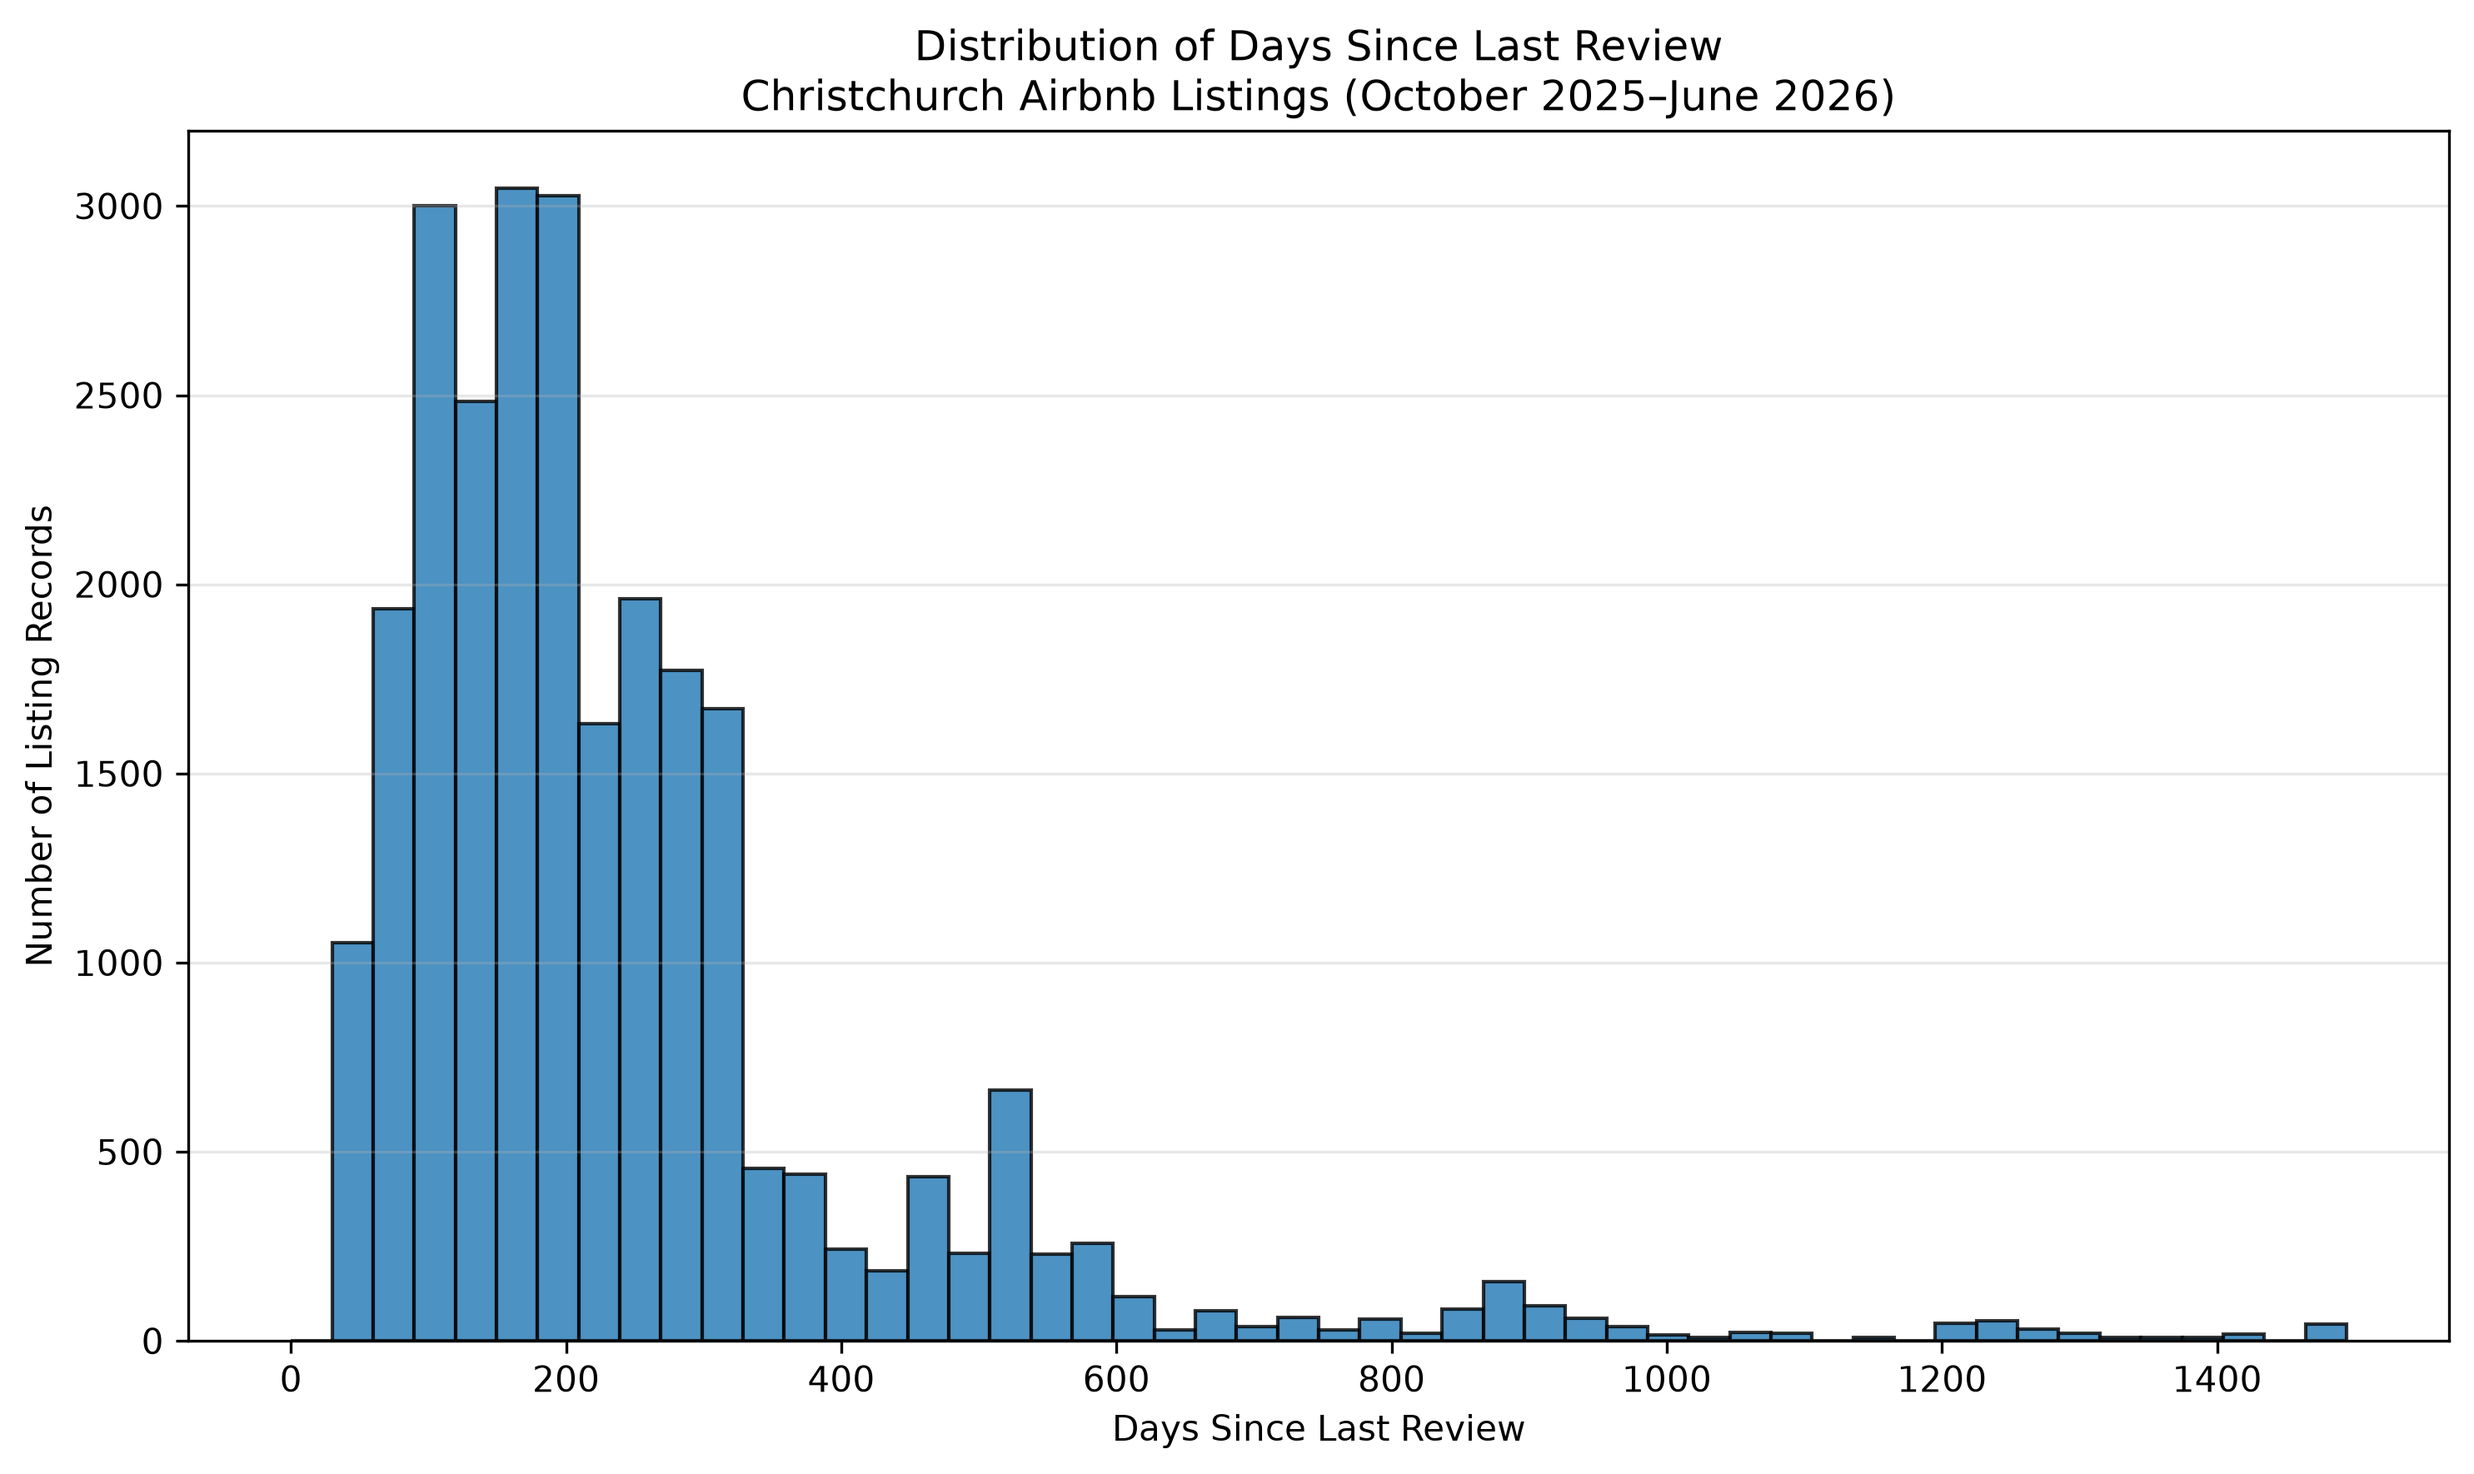
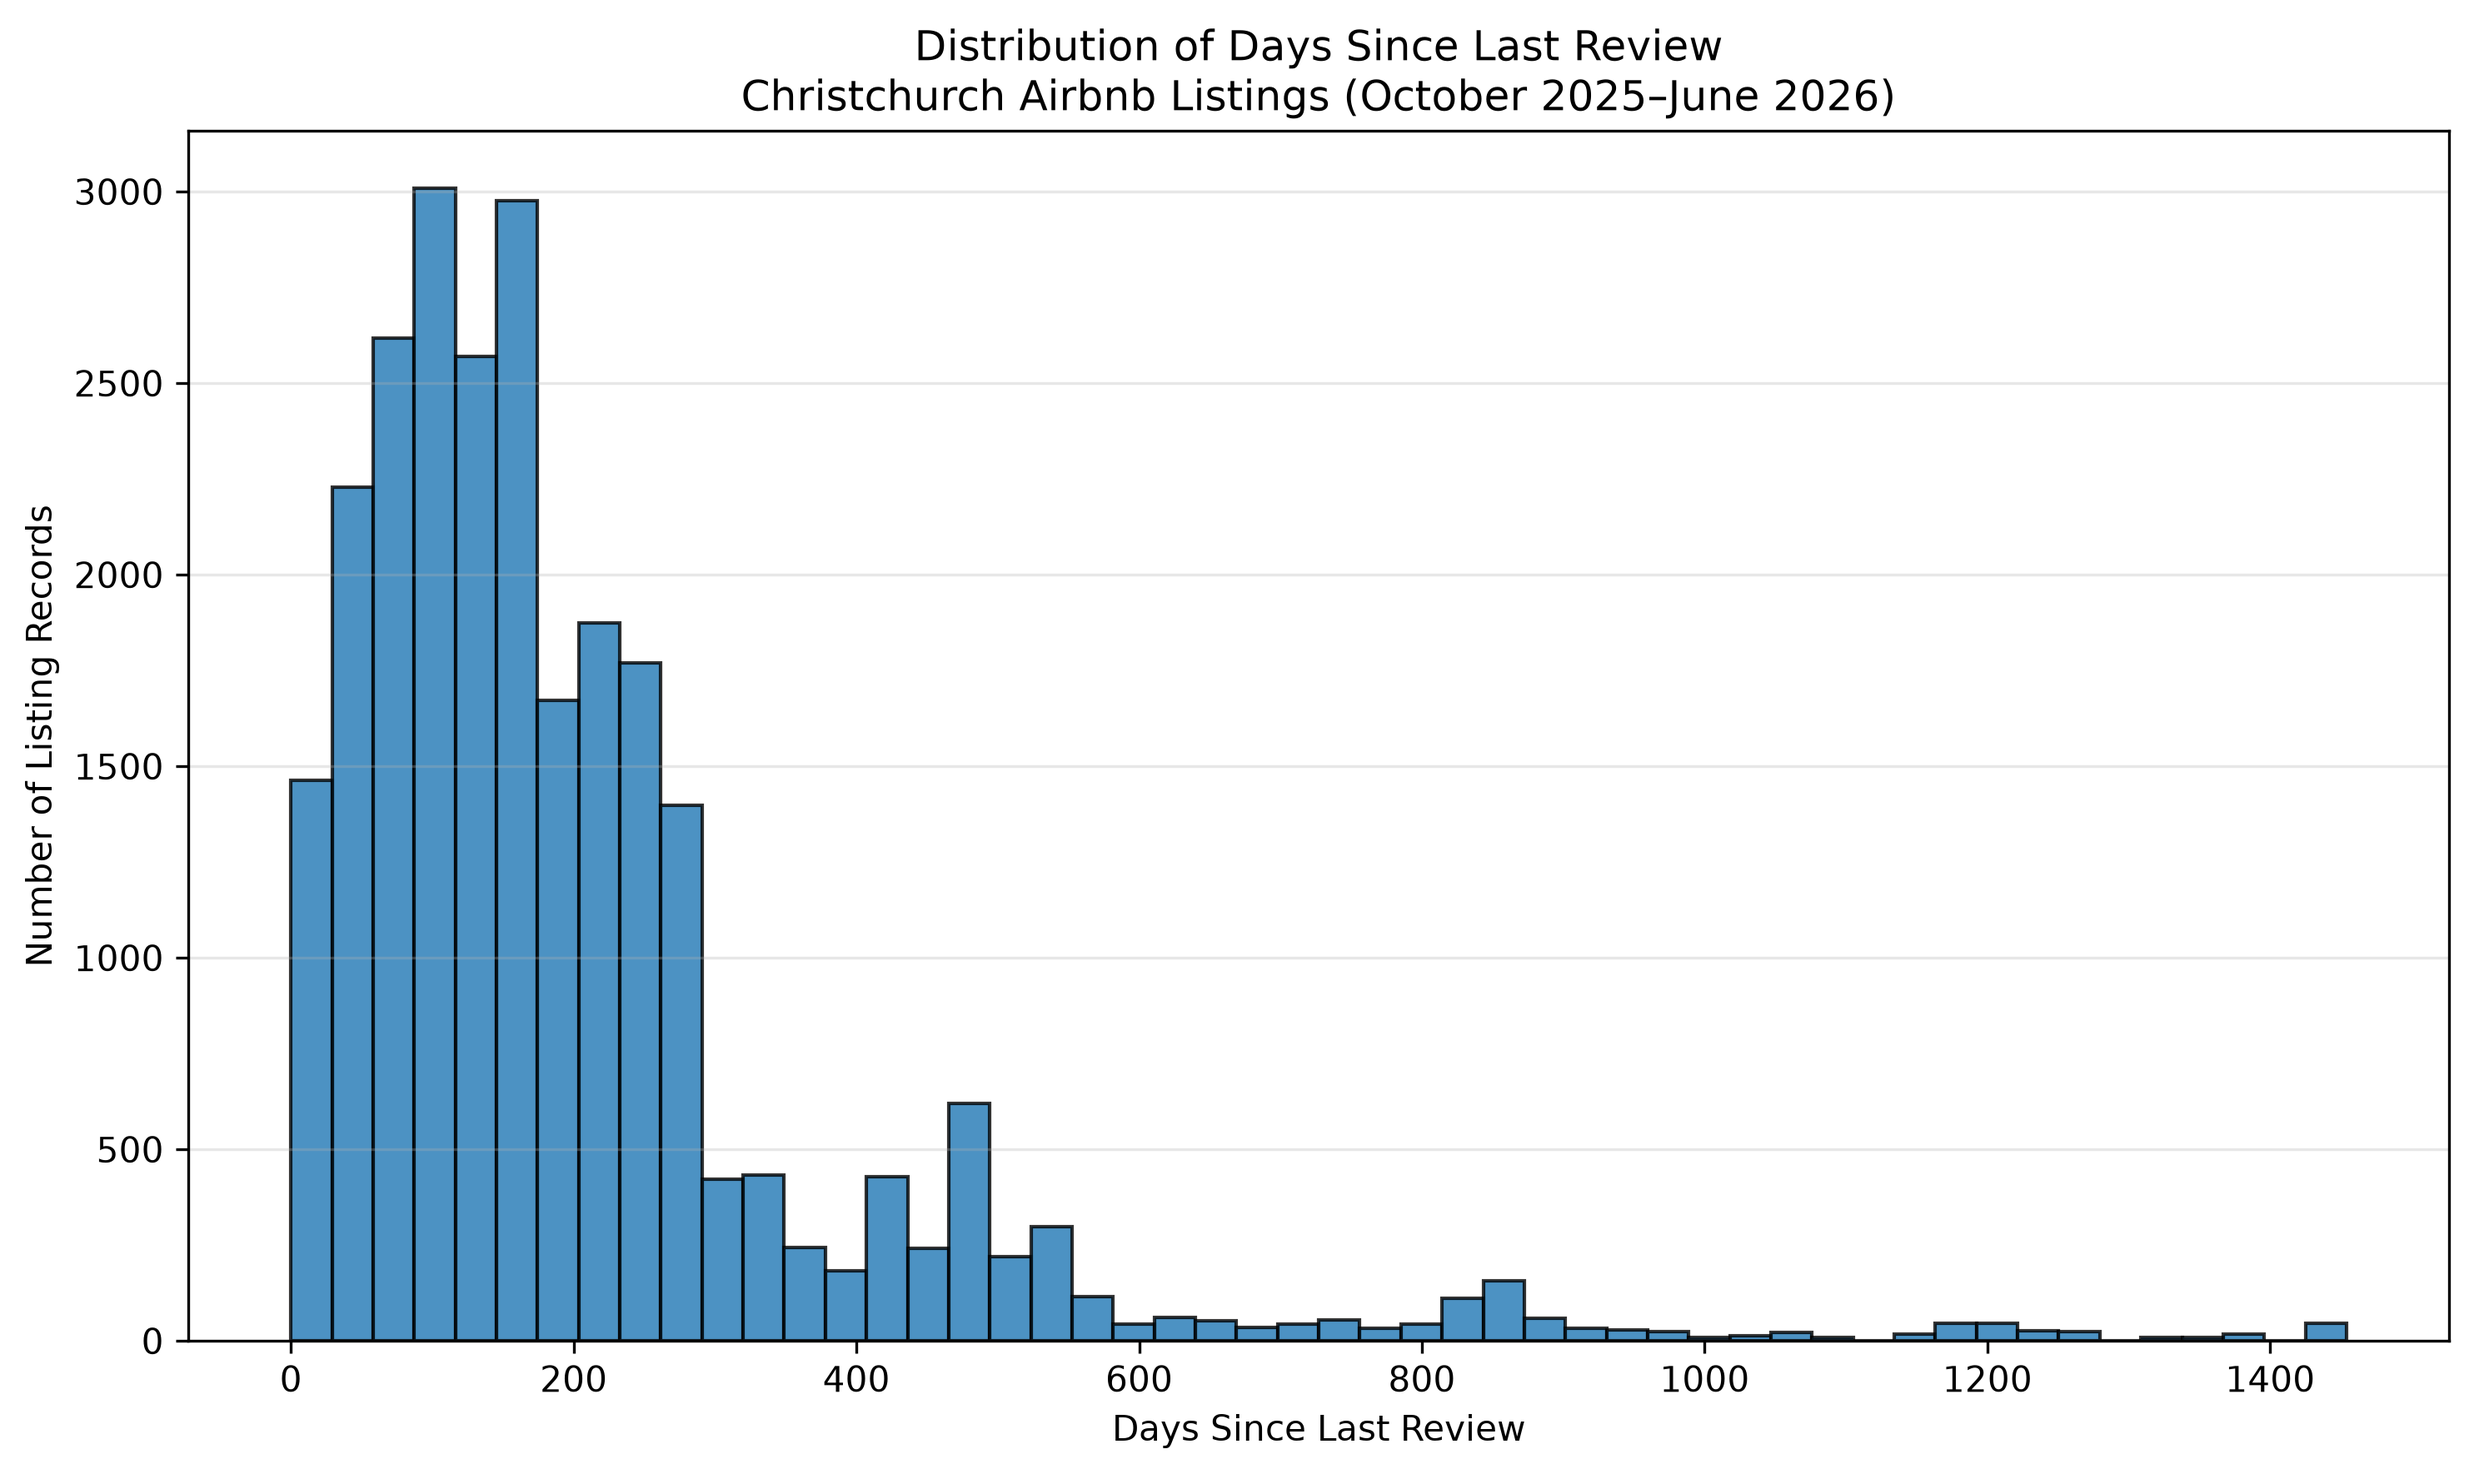
Fix Deliverable 3 data processing and summary outputs

diff --git a/deliverable_3 /airbnb_deliverable_3.py b/deliverable_3 /airbnb_deliverable_3.py
@@ -20,6 +20,7 @@ from pathlib import Path
 # Find the folder where this Python script is located.
 # This prevents problems caused by running the script from another directory.
 folder = Path(__file__).parent.parent
+output_folder = Path(__file__).parent
 
 input_files = {
     "listings_2025_10.csv": "2025-10",
@@ -38,7 +39,7 @@ identifier_columns = ["id", "host_id"]
 category_columns = ["neighbourhood", "room_type", "month_year"]
 review_plot_quantile = 0.99
 top_reviewed_quantile = 0.90
-scrape_date = "2026-06-29"
+scrape_date = "2026-06-19"
 
 christchurch_datasets = []
 #loading and filtering
@@ -60,14 +61,6 @@ combined_listings = pd.concat(
     ignore_index=True
     )
 
-# Save the combined dataset
-combined_listings.to_csv(
-    folder / output_file,
-    index=False
-)
-
-print("Total combined rows:", len(combined_listings))
-print("Combined dataset saved successfully.")
 
 # Convert price to numeric
 combined_listings["price"] = pd.to_numeric(
@@ -105,8 +98,9 @@ missing_summary = pd.DataFrame({
 
 print("\nMISSING VALUES:")
 print(missing_summary.to_string())
-missing_summary.to_csv("missing_values_summary.csv")
-
+missing_summary.to_csv(
+    output_folder / "missing_values_summary.csv"
+)
 
 # Numerical statistics
 numerical_columns = combined_listings.select_dtypes(
@@ -120,7 +114,9 @@ numerical_summary = numerical_summary[
 
 print("\nNUMERICAL SUMMARY:")
 print(numerical_summary.to_string())
-numerical_summary.to_csv("numerical_summary.csv")
+numerical_summary.to_csv(
+    output_folder / "numerical_summary.csv"
+)
 
 
 # Categorical statistics
@@ -139,8 +135,9 @@ categorical_summary = categorical_summary.rename(columns={
 
 print("\nCATEGORICAL SUMMARY:")
 print(categorical_summary.to_string())
-categorical_summary.to_csv("categorical_summary.csv")
-
+categorical_summary.to_csv(
+    output_folder / "categorical_summary.csv"
+)
 
 # Category counts
 category_counts = []
@@ -157,8 +154,10 @@ for column in category_columns:
     category_counts.append(counts)
 
 all_category_counts = pd.concat(category_counts, ignore_index=True)
-all_category_counts.to_csv("category_counts.csv", index=False)
-
+all_category_counts.to_csv(
+    output_folder / "category_counts.csv",
+    index=False
+)
 print("\nAll summary files saved successfully.")
 
 # --------------------------------------------------
@@ -195,7 +194,7 @@ plt.tight_layout()
 
 # Save the plot before displaying it
 plt.savefig(
-    folder / "christchurch_price_histogram.png",
+    output_folder / "christchurch_price_histogram.png",
     dpi=300,
     bbox_inches="tight"
 )
@@ -224,6 +223,14 @@ combined_listings["days_since_last_review"] = (
     combined_listings["scrape_date"] - combined_listings["last_review"]
 ).dt.days
 
+# Save the final processed Christchurch dataset
+combined_listings.to_csv(
+    folder / output_file,
+    index=False
+)
+
+print("Total combined rows:", len(combined_listings))
+print("Final combined dataset saved successfully.")
 
 # Remove missing and invalid values
 days_since_review = combined_listings[
@@ -264,7 +271,7 @@ plt.grid(axis="y", alpha=0.3)
 plt.tight_layout()
 
 plt.savefig(
-    folder / "days_since_last_review_histogram.png",
+    output_folder / "days_since_last_review_histogram.png",
     dpi=300,
     bbox_inches="tight"
 )
